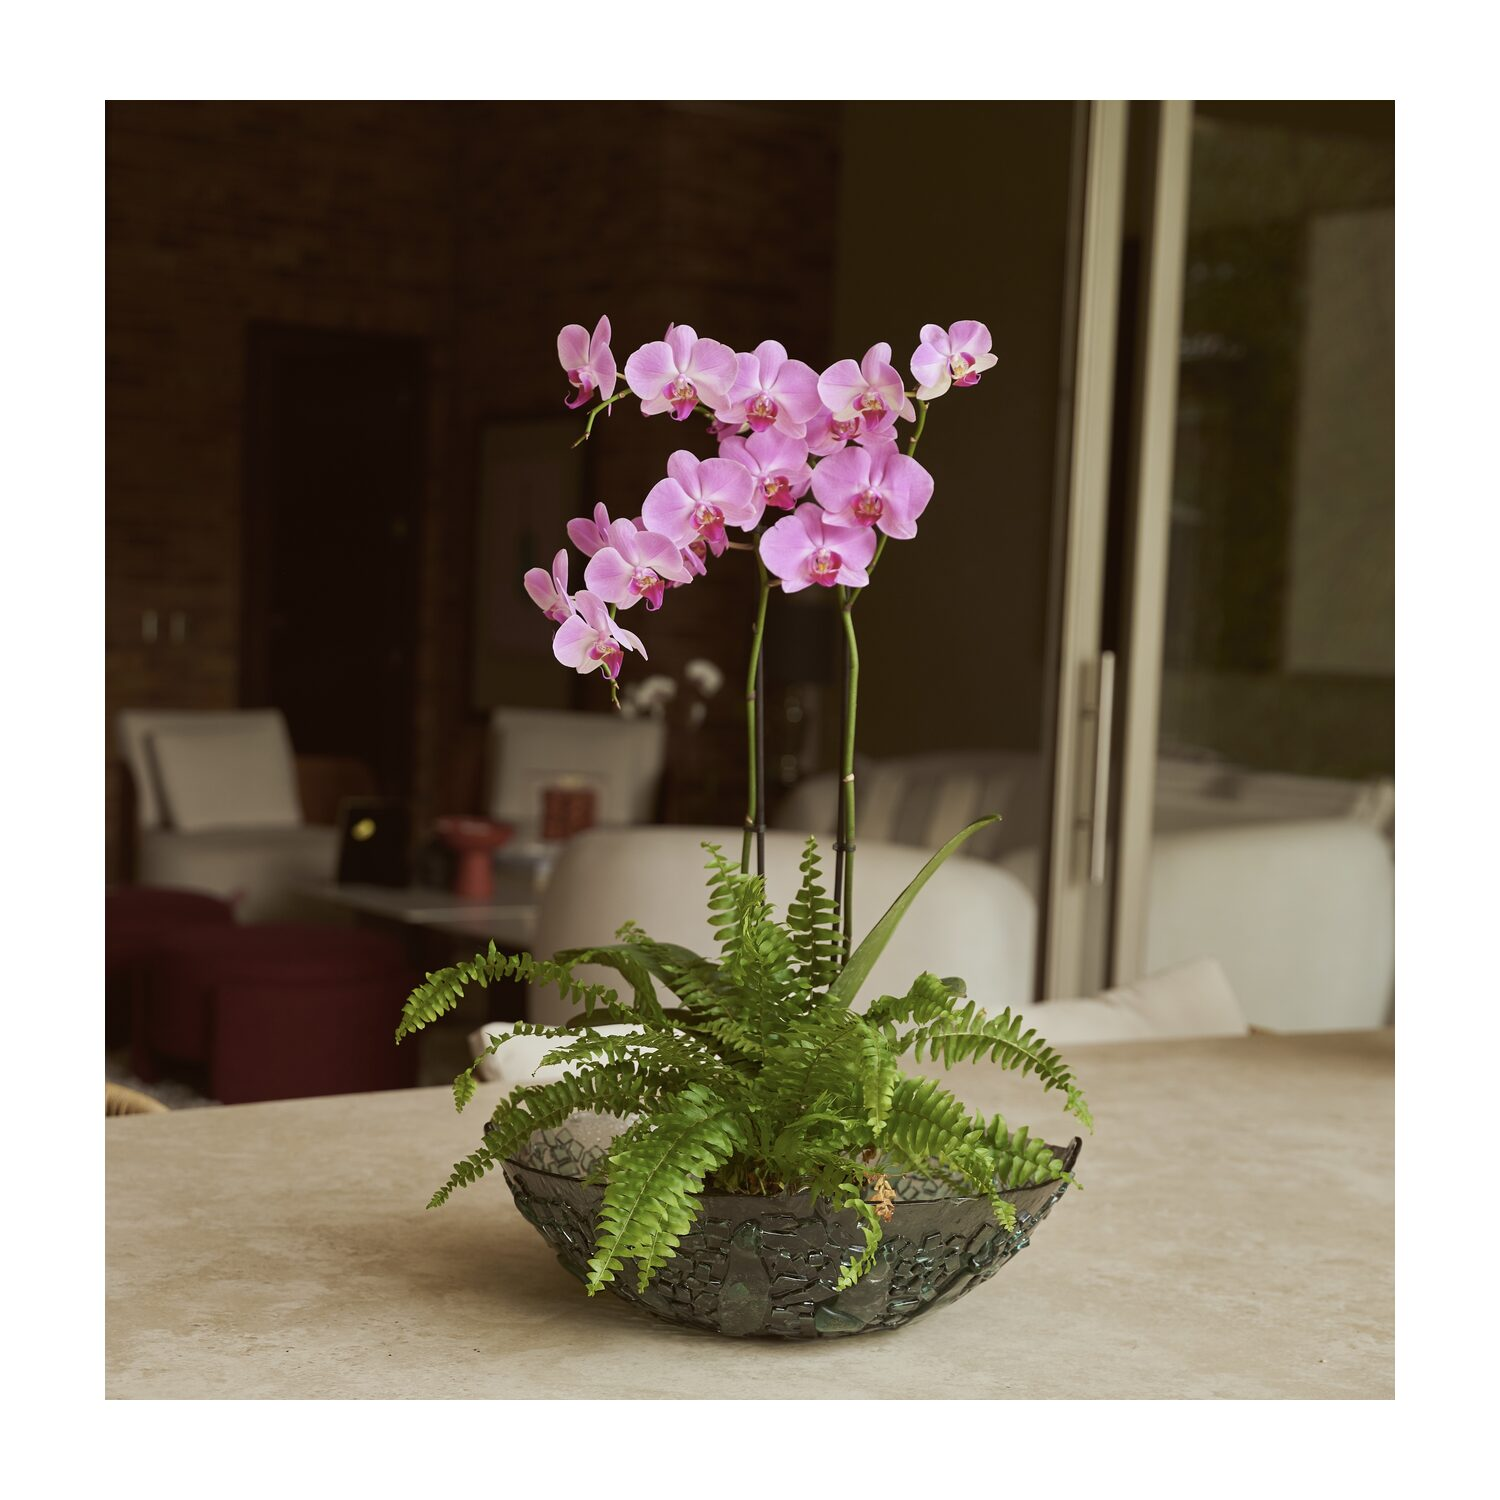
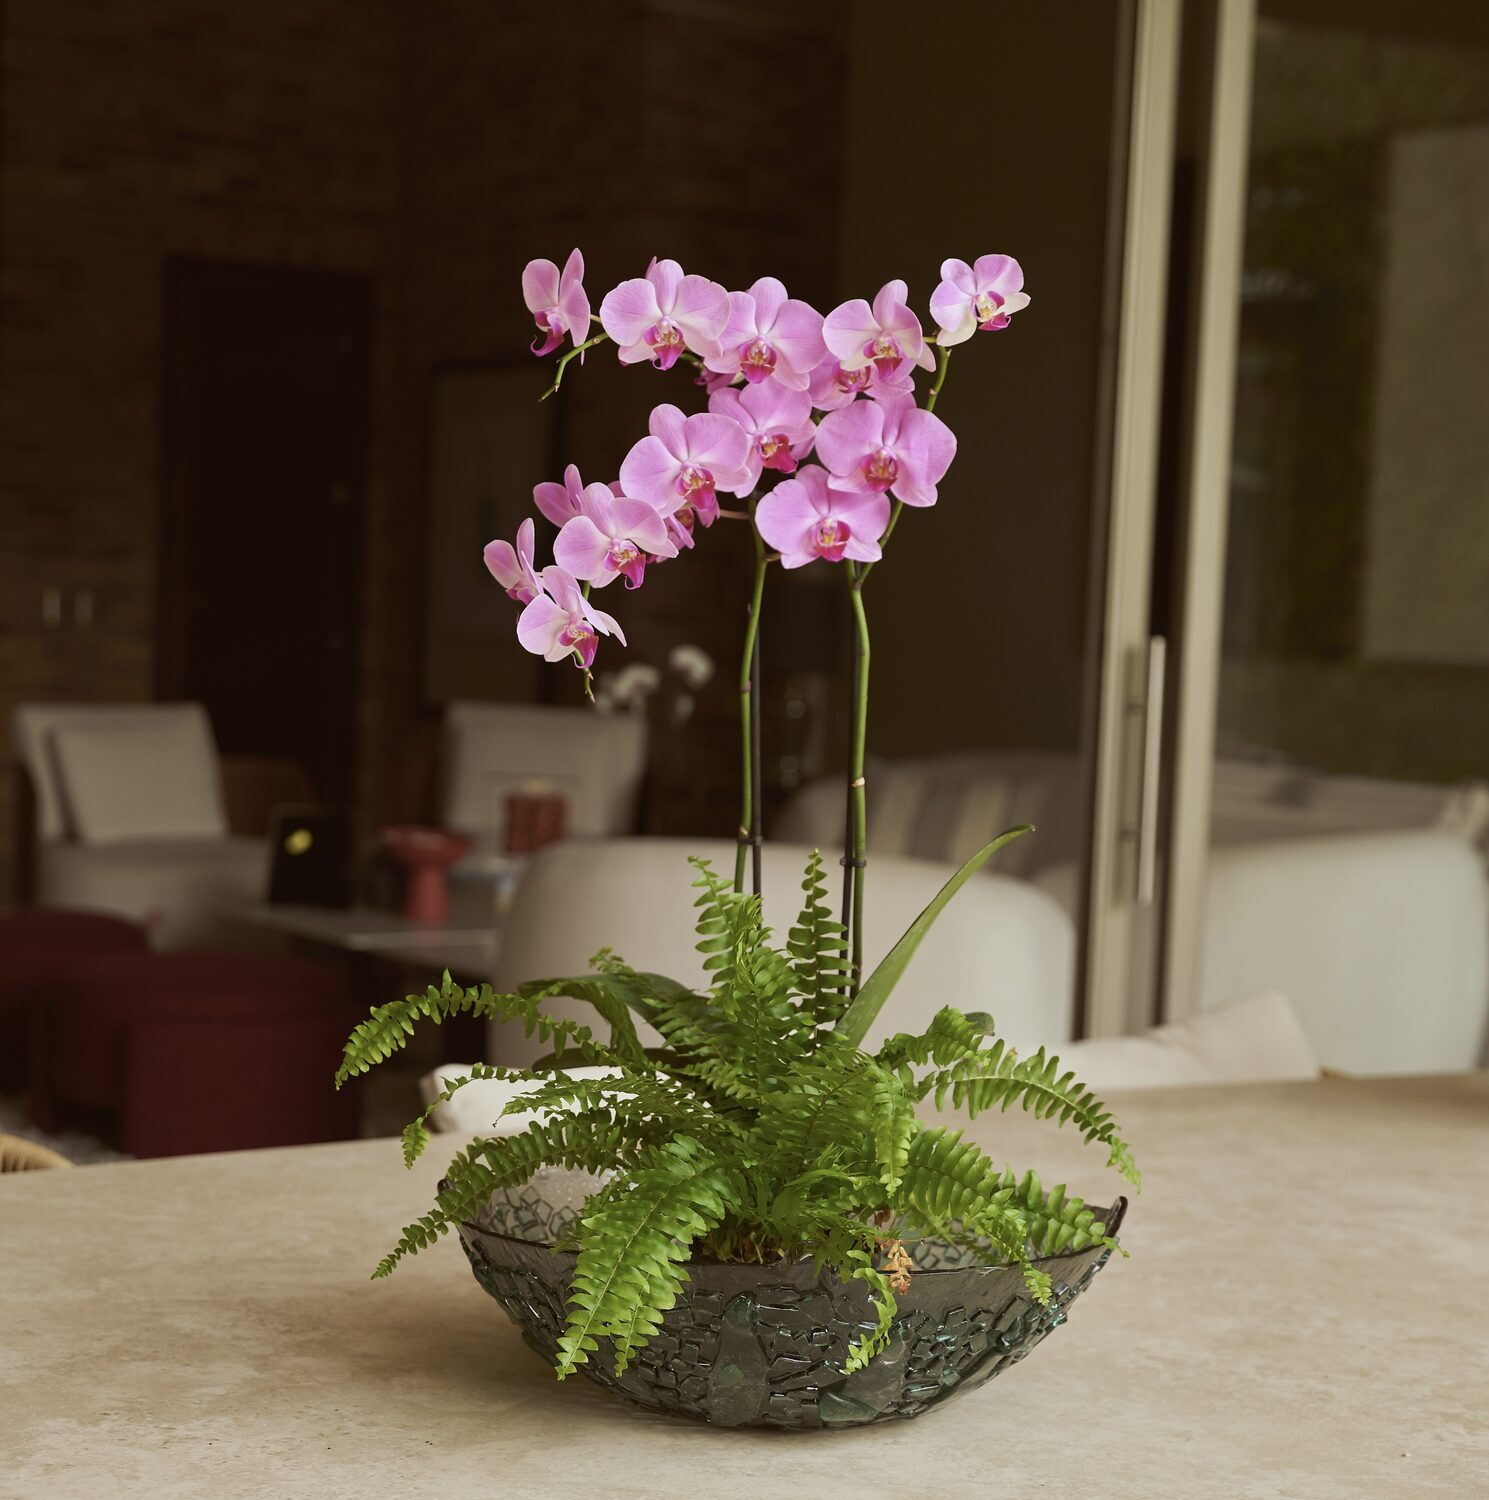
Revertir encuadre con exceso de margen blanco en Centro de Mesa Folia y Bandeja Folia; quitar ultima foto (hoja azul duplicada)

diff --git a/products.js b/products.js
@@ -945,8 +945,7 @@ const PRODUCTS=[
       "img/bandeja-folia-hoja/bandeja-folia-hoja-06.jpg",
       "img/bandeja-folia-hoja/bandeja-folia-hoja-07.jpg",
       "img/bandeja-folia-hoja/bandeja-folia-hoja-08.jpg",
-      "img/bandeja-folia-hoja/bandeja-folia-hoja-09.jpg",
-      "img/bandeja-folia-hoja/bandeja-folia-hoja-10.jpg"
+      "img/bandeja-folia-hoja/bandeja-folia-hoja-09.jpg"
     ]
   }
 ];
